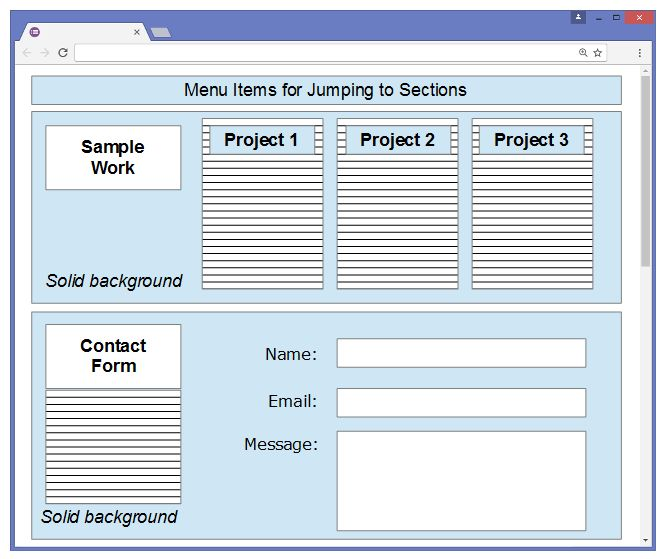
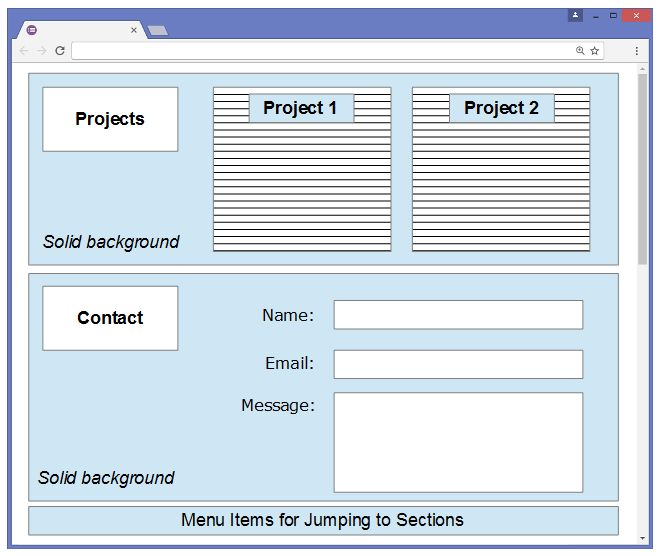
Revised wireframes to be consistent with milestone 3 layout.

diff --git a/public_html/documentation/milestone-2.php b/public_html/documentation/milestone-2.php
@@ -35,16 +35,21 @@
 			<!-- Section 1: Content Strategy -->
 			<section>
 
-				<h2>Purpose</h2>
+				<h2>Content Strategy</h2>
 
-				<p>The purpose of this site is to serve as a contact point for my professional peers, as well as a means for potential clients and customers to learn more about my skills. To do that, I am including a brief list of projects and skills and a contact form.</p>
+					<h3>Info</h3>
+					<p>The purpose of this site is to serve as a contact point for my professional peers, as well as a means for potential clients and customers to learn more about my skills. To do that, I am including a brief list of projects and skills and a contact form. The Info section will have a brief professional summary of me, as well as a list of my web development abilities.</p>
+					<h3>Projects</h3>
+					<p>The Projects section will contain a couple of samples of my web development projects (with links, if possible).</p>
+					<h3>Contact</h3>
+					<p>The Contact section will contain a contact form for people to get in touch with me.</p>
 
 			</section>
 
 			<!-- Section 2: Desktop Wireframes -->
 			<section>
 
-				<h3>Desktop Wireframes</h3>
+				<h2>Desktop Wireframes</h2>
 
 				<img id="desktop-wireframe-1" src="../img/personal-website-desktop-wireframe-1.jpg" alt="Desktop Wireframe 1">
 				<img id="desktop-wireframe-2" src="../img/personal-website-desktop-wireframe-2.jpg" alt="Desktop Wireframe 2">
@@ -54,7 +59,7 @@
 			<!-- Section 3: Mobile Wireframes -->
 			<section>
 
-				<h3>Mobile Wireframes</h3>
+				<h2>Mobile Wireframes</h2>
 
 				<img id="mobile-wireframe-1" src="../img/personal-website-mobile-wireframe-1.jpg" alt="Mobile Wireframe 1">
 				<img id="mobile-wireframe-2" src="../img/personal-website-mobile-wireframe-2.jpg" alt="Mobile Wireframe 2">
